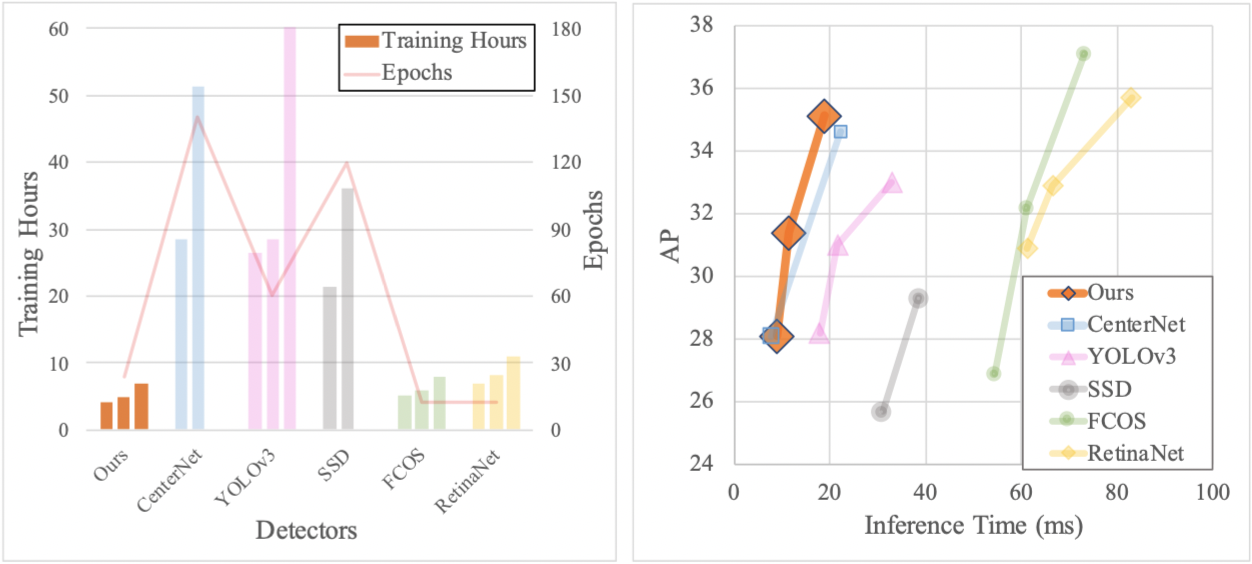
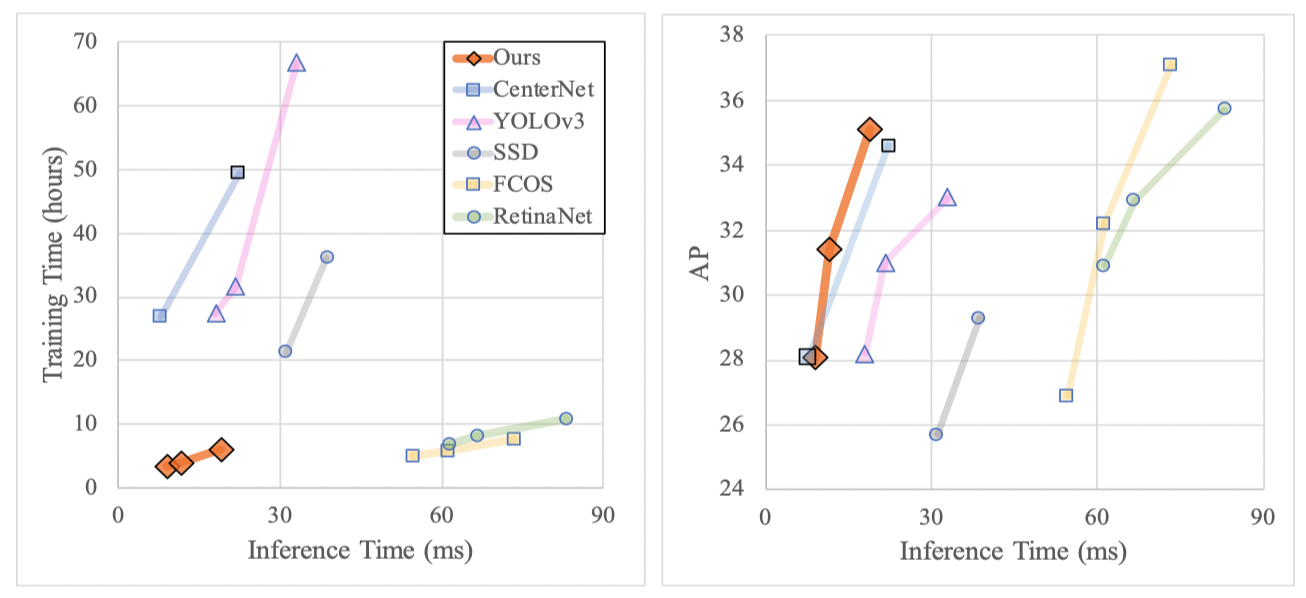
update imgs, readme, darknet recover license

diff --git a/mmdet/models/backbones/darknet.py b/mmdet/models/backbones/darknet.py
@@ -7,13 +7,13 @@ from mmdet.models.utils import build_norm_layer
 
 from mmdet.models.registry import BACKBONES
 
+
 def common_conv2d(inplanes,
                   planes,
                   kernel,
                   padding,
                   stride,
                   norm_cfg=dict(type='BN')):
-    """A common conv-bn-leakyrelu cell"""
     cell = OrderedDict()
     cell['conv'] = nn.Conv2d(inplanes, planes, kernel_size=kernel,
                              stride=stride, padding=padding, bias=False)
@@ -70,7 +70,6 @@ class DarknetV3(nn.Module):
         self.norm_eval = norm_eval
         self.darknet_layer_name = []
 
-        # first 3x3 conv
         self.stem = common_conv2d(inplanes[0], planes[0], 3, 1, 1, norm_cfg=norm_cfg)
 
         for i, (nlayer, inchannel, channel) in enumerate(zip(layers[:self.num_stages],
@@ -84,7 +83,6 @@ class DarknetV3(nn.Module):
 
             layer.append(common_conv2d(inchannel, channel, 3, 1, 2, norm_cfg=norm_cfg))
 
-            # add nlayer basic blocks
             for _ in range(nlayer):
                 layer.append(DarknetBasicBlockV3(channel, channel // 2))
             self.add_module(layer_name, nn.Sequential(*layer))
@@ -120,7 +118,6 @@ class DarknetV3(nn.Module):
                 param.requires_grad = False
 
     def forward(self, x):
-        # D53: 18.1ms
         x = self.stem(x)
         outs = []
         for i, layer_name in enumerate(self.darknet_layer_name):
@@ -137,6 +134,5 @@ class DarknetV3(nn.Module):
         super(DarknetV3, self).train(mode)
         if mode and self.norm_eval:
             for m in self.modules():
-                # trick: eval have effect on BatchNorm only
                 if isinstance(m, nn.BatchNorm2d):
                     m.eval()

diff --git a/README.md b/README.md
@@ -5,47 +5,48 @@ The code for implementing the **TTFNet** for object detection.
 ![image-20190807160835333](imgs/structure.png)
 
 ## Highlights
-- **Simple:** Anchor-free, no multi-stage, no multi-scale features, no time-consuming post-processing. TTFNet only requires two detection heads for object localization and size regression. Any other predictions used to correct the results are not required.
-- **Training Time Friendly:**  Our fast-training TTFNet-18 and TTFNet-53 can achieve 26 AP / 111 FPS within 2 hours and 33 AP / 55 FPS within 4 hours on the MS COCO dataset using 8 GTX 1080Ti.
-- **Fast and Precise:** Our TTFNet-18/34/53 can achieve 27.9AP / 112FPS, 31.3AP / 87FPS, and 35.1AP / 54.4 FPS on 1 GTX 1080Ti.
+- **Simple:** Anchor-free, single-stage, light-head, no time-consuming post-processing. TTFNet only requires two detection heads for object localization and size regression. Any other predictions used to correct the results are not required.
+- **Training Time Friendly:**  Our TTFNet outperform a range of real-time detectors while suppressing them in training time. Moreover, fast-training TTFNet-18 and TTFNet-53 can reach 25.9 AP / 112 FPS only after 2 hours and 32.9 AP / 55 FPS after about 3 hours on the MS COCO dataset using 8 GTX 1080Ti.
+- **Fast and Precise:** Our TTFNet-18/34/53 can achieve 27.9AP / 112FPS, 31.3AP / 87FPS, and 35.1AP / 54 FPS on 1 GTX 1080Ti.
 
 ![image-20190807153122553](imgs/results.png)
 
 ## Installation
-Our TTFNet is based on [mmdetection](https://github.com/open-mmlab/mmdetection). You may also want to see the original [README.md](MMDETECTION_README.md) of mmdetection. 
+Our TTFNet is based on [mmdetection](https://github.com/open-mmlab/mmdetection). You may also want to see the original [README.md](MMDETECTION_README.md). Our source code will merge into the mmdetection soon.
 
 Please check [INSTALL.md](INSTALL.md) for installation instructions.
 
 ## Inference
-The inference command line on coco minival split:
-
-
 
 We provide the following converged models.
 
 | Model            | Training Hours | FPS   | AP(minival) | Link                                                         |
 | ---------------- | -------------- | ----- | ----------- | ------------------------------------------------------------ |
-| TTFNet-18 (fast) | 2.1            | 112.2 | 25.9        | [Download](https://zjueducn-my.sharepoint.com/:u:/g/personal/11921047_zju_edu_cn/EaCB-TKnqURNoyl_P-uxClABsSz35Nmu-L1T3SObBnHYMw?e=HxGXPE) |
-| TTFNet-18        | 4.1            | 112.3 | 28.1        | [Download](https://zjueducn-my.sharepoint.com/:u:/g/personal/11921047_zju_edu_cn/Ef2CVhUYfOJDjzrlQfZGWxwBvUqnXu3mJ0pweiSEuPNYag?e=iJwPPv) |
-| TTFNet-34        | 4.8            | 86.6  | 31.3        | [Download](https://zjueducn-my.sharepoint.com/:u:/g/personal/11921047_zju_edu_cn/Eb0Ab71mpsFBvBP2_GsJ4tUBRGM8NvAym9qZxPqJGtyWSA?e=6Y7BU7) |
-| TTFNet-53 (fast) | 3.4            | 54.8  | 32.9        | [Download](https://zjueducn-my.sharepoint.com/:u:/g/personal/11921047_zju_edu_cn/EZVE_d6oR_VGrDD4IZS2ppIB0lm2V8UaBkgFUjuEM7oRZA?e=XVLRwx) |
-| TTFNet-53        | 6.8            | 54.4  | 35.1        | [Download](https://zjueducn-my.sharepoint.com/:u:/g/personal/11921047_zju_edu_cn/Ed1Qxlom3FpGmNZI9dnHau8BtXF0rPeHSYGn6HkoXOEB3A?e=NfPjrZ) |
+| TTFNet-18 (fast) | 1.8            | 112.2 | 25.9        | [Download](https://zjueducn-my.sharepoint.com/:u:/g/personal/11921047_zju_edu_cn/EaCB-TKnqURNoyl_P-uxClABsSz35Nmu-L1T3SObBnHYMw?e=HxGXPE) |
+| TTFNet-18        | 3.6            | 112.3 | 28.1        | [Download](https://zjueducn-my.sharepoint.com/:u:/g/personal/11921047_zju_edu_cn/Ef2CVhUYfOJDjzrlQfZGWxwBvUqnXu3mJ0pweiSEuPNYag?e=iJwPPv) |
+| TTFNet-34        | 4.1            | 86.6  | 31.3        | [Download](https://zjueducn-my.sharepoint.com/:u:/g/personal/11921047_zju_edu_cn/Eb0Ab71mpsFBvBP2_GsJ4tUBRGM8NvAym9qZxPqJGtyWSA?e=6Y7BU7) |
+| TTFNet-53 (fast) | 3.1            | 54.8  | 32.9        | [Download](https://zjueducn-my.sharepoint.com/:u:/g/personal/11921047_zju_edu_cn/EZVE_d6oR_VGrDD4IZS2ppIB0lm2V8UaBkgFUjuEM7oRZA?e=XVLRwx) |
+| TTFNet-53        | 6.1            | 54.4  | 35.1        | [Download](https://zjueducn-my.sharepoint.com/:u:/g/personal/11921047_zju_edu_cn/Ed1Qxlom3FpGmNZI9dnHau8BtXF0rPeHSYGn6HkoXOEB3A?e=NfPjrZ) |
 
-We also provide the pretrained [Darknet53](https://zjueducn-my.sharepoint.com/:u:/g/personal/11921047_zju_edu_cn/EaXXohf5LgBNji6bkxrARN4BZ9N4sEedaINPeqexu5l2jA?e=nJhe8L) here.
+We also provide the pretrained [Darknet53](https://zjueducn-my.sharepoint.com/:u:/g/personal/11921047_zju_edu_cn/EaXXohf5LgBNji6bkxrARN4BZ9N4sEedaINPeqexu5l2jA?e=nJhe8L) here. Note that the darknet part was transplanted (i.e., MXNet => Pytorch) from another toolbox [Gluoncv](https://github.com/dmlc/gluon-cv). Thanks for them !
+
+The following command will test converged TTFNet-53 on 8 GPUs:
+
+```
+./tools/dist_test.sh configs/ttfnet/ttfnet_d53_2x.py /path/to/the/checkpoint 8
+```
 
 ## Training
 
 The following commands will train TTFNet-18 on 8 GPUs for 24 epochs and TTFNet-53 on 8 GPUs for 12 epochs:
 
 ```
-./scripts/dist_train.sh configs/ttfnet/ttfnet_r18_2x.py 8
+./tools/dist_train.sh configs/ttfnet/ttfnet_r18_2x.py 8
 ```
 
 ```
-./scripts/dist_train.sh configs/ttfnet/ttfnet_d53_1x.py 8
+./tools/dist_train.sh configs/ttfnet/ttfnet_d53_1x.py 8
 ```
-
-
 
 ## Citations
 Please consider citing our paper in your publications if the project helps your research. BibTeX reference is as follows.
@@ -53,5 +54,15 @@ Please consider citing our paper in your publications if the project helps your 
 
 ```
 
-## License
-This project is released under the [Apache 2.0 license](LICENSE).
+Thanks for the contributions of mmdetection toolbox. Their BibTeX reference is as follows.
+```
+@article{mmdetection,
+  title   = {{MMDetection}: Open MMLab Detection Toolbox and Benchmark},
+  author  = {Kai Chen, Jiaqi Wang, Jiangmiao Pang, Yuhang Cao, Yu Xiong, Xiaoxiao Li,
+             Shuyang Sun, Wansen Feng, Ziwei Liu, Jiarui Xu, Zheng Zhang, Dazhi Cheng,
+             Chenchen Zhu, Tianheng Cheng, Qijie Zhao, Buyu Li, Xin Lu, Rui Zhu, Yue Wu,
+             Jifeng Dai, Jingdong Wang, Jianping Shi, Wanli Ouyang, Chen Change Loy, Dahua Lin},
+  journal = {arXiv preprint arXiv:1906.07155},
+  year    = {2019}
+}
+```
